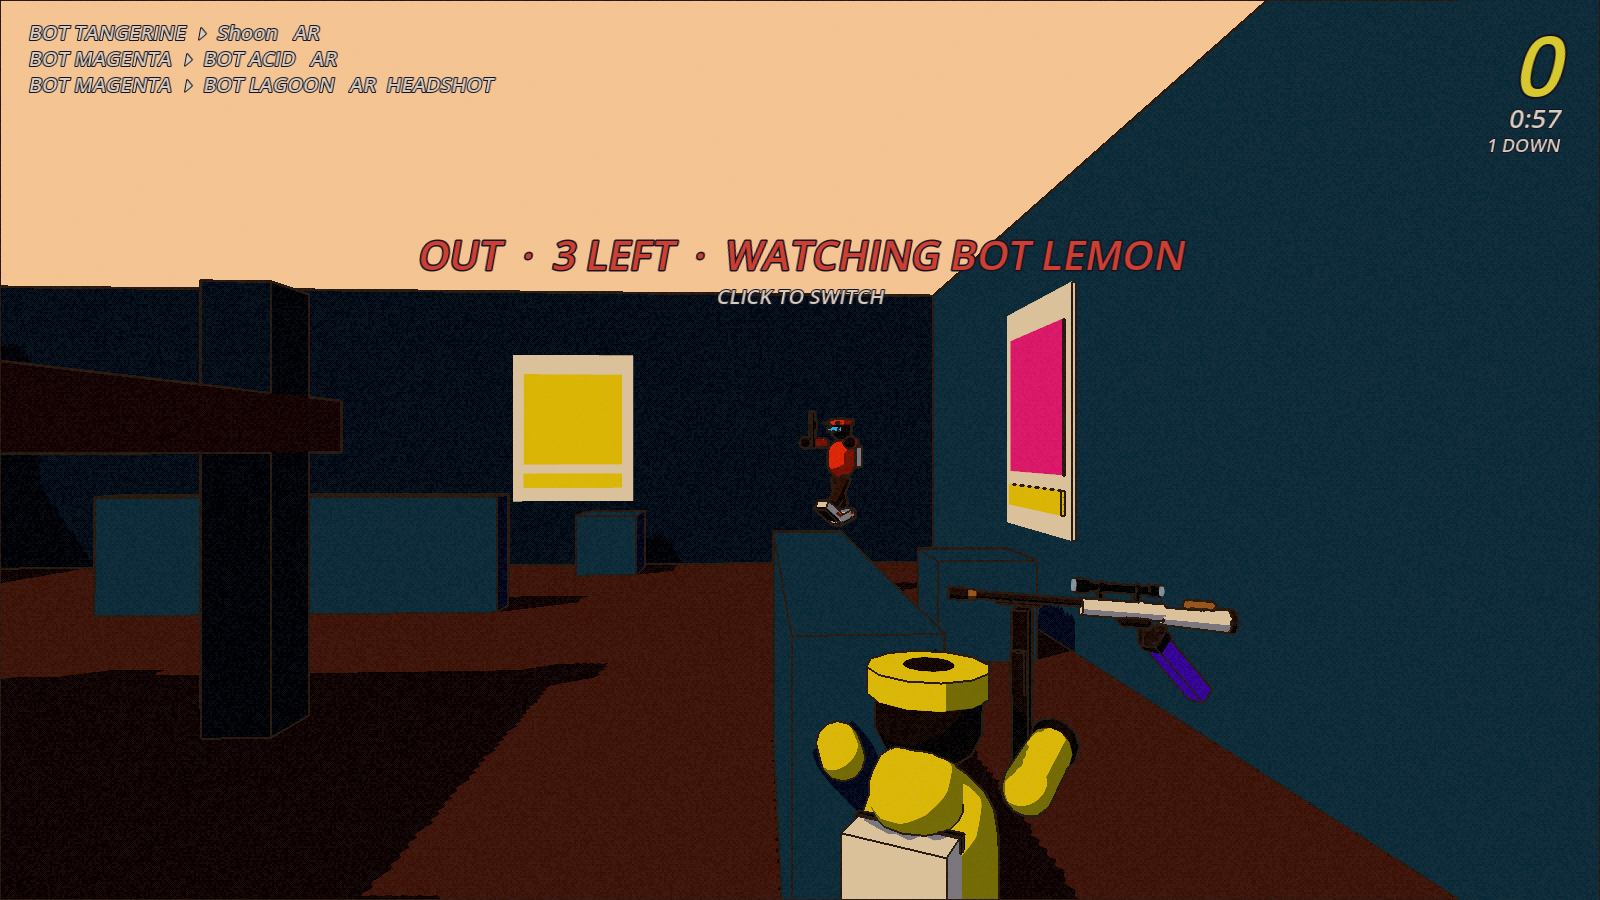
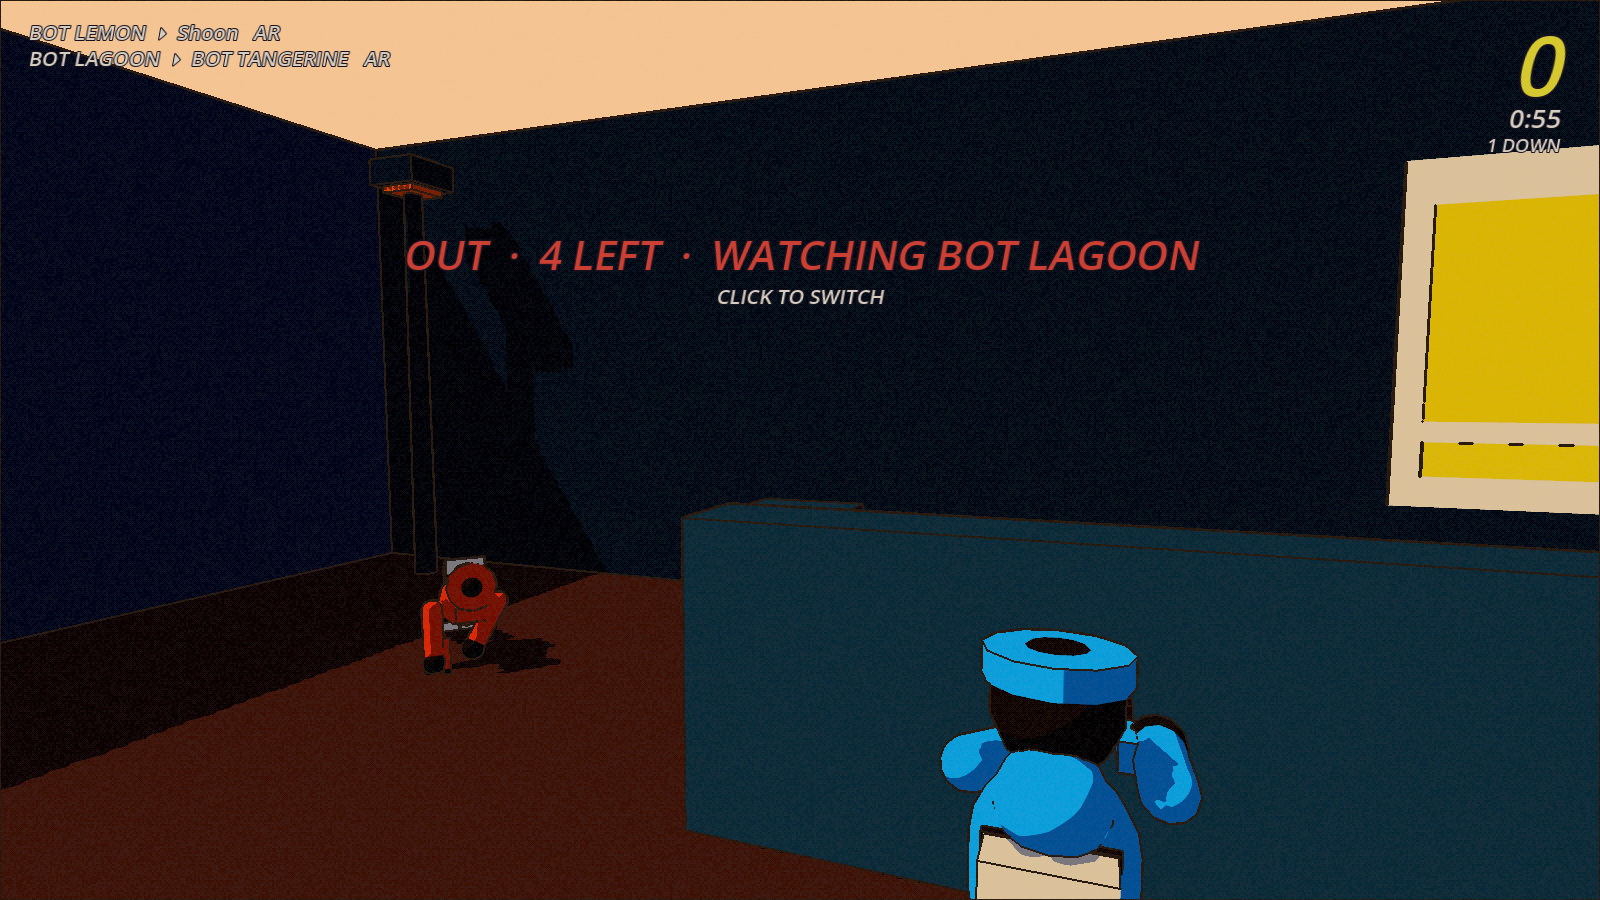
Name labels over other players, held rifle or carbine by weapon slot, spectator rig guard

diff --git a/DECISIONS.md b/DECISIONS.md
@@ -120,3 +120,4 @@ Append-only. One line per assumption: date, the decision, the reason. Newest at 
 - 2026-09-18 — `--figure_test` parks the showcase camera in front of three figures (walking, aiming, down) on the arena's east lane so the humanoid can be judged from one frame (`figures.png`); the spectator camera no longer renders the viewmodel layer, which had left the dead player's rifle floating in the chase view.
 - 2026-09-18 — Results screen podium: the top three as figures on ink blocks in a SubViewport on the right, ranks as 3D labels, the winner hopping in place, colours from the session registry. Party games end on a podium; a list alone did not celebrate anyone.
 - 2026-09-18 — Board HUD counts down the last 10 s before the server auto-rolls the host's turn ("AUTO-ROLL IN 7"); Sean's log showed a silent timeout. Figures flinch (head and torso jerk back) when their health drops.
+- 2026-09-18 — Other players carry a name label over the head (hidden while down) and the figure shows which weapon they hold: a cream long rifle with a scope in slot 0, a short carbine in the player's colour otherwise, from the replicated weapon slot. Reading who is who and who has the sniper matters more in a party lobby than in a ranked shooter.
